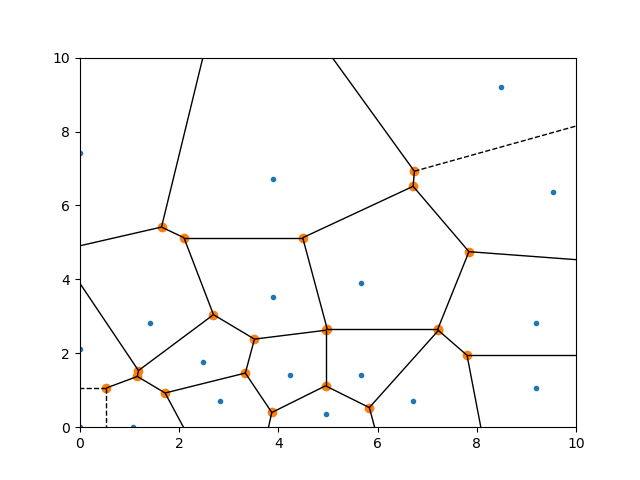
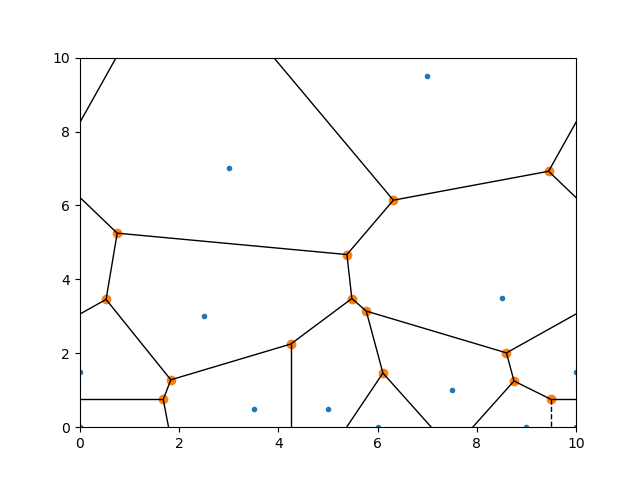
generate periodic grains and mehs in 2D

diff --git a/GradientGrains.py b/GradientGrains.py
@@ -1,7 +1,7 @@
 import numpy as np
 import matplotlib.pyplot as plt
 import scipy.spatial
-from scipy.spatial import Voronoi, voronoi_plot_2d
+from scipy.spatial import Voronoi, voronoi_plot_2d, KDTree
 from shapely.geometry import Polygon
 
 
@@ -9,10 +9,9 @@ def size_gradient(d1, d2, x, y, res_x, res_y):
     return (d2 - d1) / res_y * y + d1
 
 
-def gen_voronoi(rve_x, rve_y, r, d1, d2):
+def seeding(rve_x: float, rve_y: float, res: float, dmin: float, dmax: float) -> np.ndarray:
     # Rasterization
-    dx = r / np.sqrt(2)
-    res_x, res_y = int(rve_x / dx), int(rve_y / dx)
+    res_x, res_y = int(rve_x / res), int(rve_y / res)
     init_len = res_x * res_y
     grid_ids = np.arange(init_len)
     grid = grid_ids.reshape(res_x, res_y)
@@ -20,7 +19,7 @@ def gen_voronoi(rve_x, rve_y, r, d1, d2):
     # precompute sizes
     box_x_indices = np.array(grid / res_x, dtype=int)
     box_y_indices = np.array(grid - box_x_indices * res_x, dtype=int)
-    ds = size_gradient(d1, d2, box_x_indices, box_y_indices, res_x, res_y)
+    ds = size_gradient(dmin, dmax, box_x_indices, box_y_indices, res_x, res_y)
 
     # store chosen points
     seeds = []
@@ -41,8 +40,18 @@ def gen_voronoi(rve_x, rve_y, r, d1, d2):
         grid_ids = grid.flatten()
         grid_ids = grid_ids[grid_ids >= 0]
 
-    seeds = np.array(seeds) * dx
-    vor = Voronoi(seeds)  # ridge_dict points to vertices
+    seeds = np.array(seeds) * res
+    return seeds
+
+
+def gen_periodic_voronoi(seeds: np.ndarray, rve_x: float) -> scipy.spatial.Voronoi:
+    left_side_seeds = seeds.copy()
+    left_side_seeds[:, 0] = left_side_seeds[:, 0] - rve_x
+    right_side_seeds = seeds.copy()
+    right_side_seeds[:, 0] = right_side_seeds[:, 0] + rve_x
+    seeds = np.vstack([left_side_seeds, seeds])
+    seeds = np.vstack([seeds, right_side_seeds])
+    vor = Voronoi(seeds)
     return vor
 
 
@@ -139,36 +148,44 @@ def get_grains(vor: scipy.spatial.Voronoi, rve_x: float, rve_y: float) -> list:
     box = Polygon([[min_x, min_y], [min_x, max_y], [max_x, max_y], [max_x, min_y]])
 
     grains = []
+    grain_ids = []
+    i = 0
     for region in regions:
+        grain_id = i % int(len(vor.points) / 3)
         polygon = vertices[region]
         # Clipping polygon
         poly = Polygon(polygon)
-        poly = poly.intersection(box)
+        poly = poly.intersection(box) # needs modification
         polygon = [p for p in poly.exterior.coords]
-        grains.append(polygon)
+        if len(polygon) > 0:
+            grains.append(polygon)
+            grain_ids.append(grain_id)
+        i += 1
 
-    return grains
+    return grains, grain_ids
 
 
 if __name__ == "__main__":
-
-    vor = gen_voronoi(10, 10, 0.5, 1, 5)
-    voronoi_plot_2d(vor, show_vertices=True, show_points=True)
-    plt.xlim([0, 10])
-    plt.ylim([0, 10])
-    plt.savefig("test_grains.png")
-    plt.close()
-
-    grains = get_grains(vor=vor, rve_x=10, rve_y=10)
-    # colorize
-    for grain in grains:
-        plt.fill(*zip(*grain), alpha=0.4)
-
-    plt.plot(vor.points[:, 0], vor.points[:, 1], 'ko')
-    plt.axis('equal')
-    plt.xlim(0, 10)
-    plt.ylim(0, 10)
-
-    plt.savefig('finite_voro.png')
-    plt.show()
+    seeds = seeding(10, 10, 0.5, 1, 5)
+    vor = gen_periodic_voronoi(seeds=seeds, rve_x=10)
+    grains, grain_ids = get_grains(vor=vor, rve_x=10, rve_y=10)
+    print(grains)
+    print(grain_ids)
+    # voronoi_plot_2d(vor)
+    # plt.xlim([0, 10])
+    # plt.ylim([0, 10])
+    # plt.show()
+    #
+    # grains = get_grains(vor=vor, rve_x=10, rve_y=10)
+    #
+    # for grain in grains:
+    #     plt.fill(*zip(*grain), alpha=0.4)
+    #
+    # plt.plot(vor.points[:, 0], vor.points[:, 1], 'ko')
+    # plt.axis('equal')
+    # plt.xlim(0, 10)
+    # plt.ylim(0, 10)
+    #
+    # plt.savefig('voronoi.png')
+    # plt.show()
 

diff --git a/mesh.py b/mesh.py
@@ -1,0 +1,43 @@
+import matplotlib.pyplot as plt
+import numpy as np
+from GradientGrains import *
+import pyvista as pv
+import pandas as pd
+
+
+def mesh_2d(grains: list, grain_ids: list) -> pv.PolyData:
+    mesh = pv.PolyData()
+    for grain in grains:
+        points = np.array(grain)
+        zeros = np.zeros((points.shape[0], 1))
+        points = np.hstack([points, zeros])
+        faces = np.hstack([len(points), np.arange(len(points))])
+        mesh = mesh + pv.PolyData(points, faces)
+
+    mesh.cell_data['GrainID'] = grain_ids
+    return mesh
+
+
+def adaptive_refinement(mesh: pv.PolyData, degree: int) -> pv.PolyData:
+    mesh.triangulate(inplace=True)
+    mesh.subdivide(nsub=degree, subfilter='linear', inplace=True)
+    return mesh
+
+
+if __name__ == "__main__":
+    seeds = seeding(10, 10, 0.5, 1, 5)
+    vor = gen_periodic_voronoi(seeds=seeds, rve_x=10)
+    voronoi_plot_2d(vor, show_vertices=True, show_points=True)
+    plt.xlim([0, 10])
+    plt.ylim([0, 10])
+    plt.savefig("test_grains.png")
+    plt.close()
+
+    grains, grain_ids = get_grains(vor, 10, 10)
+    mesh = mesh_2d(grains=grains, grain_ids=grain_ids)
+    mesh.plot(show_edges=True)
+
+    refined_mesh = adaptive_refinement(mesh=mesh, degree=2)
+    refined_mesh.plot(show_edges=True)
+
+
